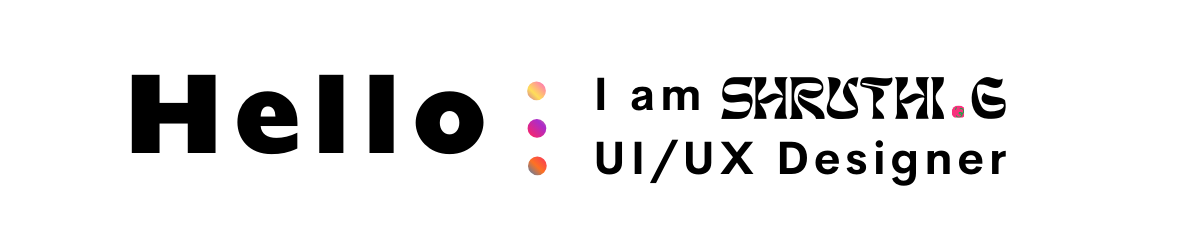
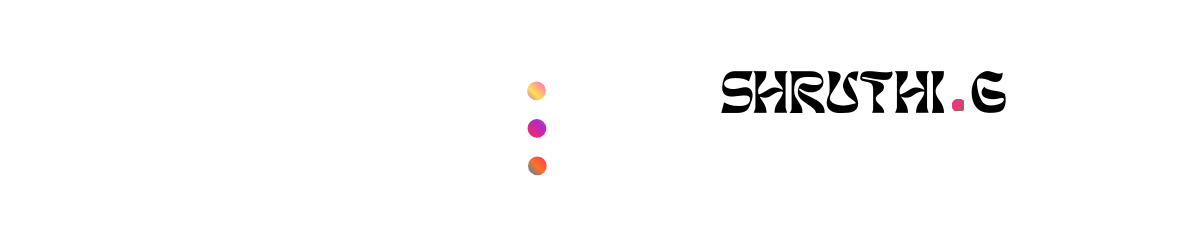
Updates

Changed region(s): [[0.0914, 0.2966, 0.4268, 0.6525], [0.4877, 0.2966, 0.8535, 0.5042], [0.4877, 0.5932, 0.8535, 0.8008]]

diff --git a/CSS/homepage.css b/CSS/homepage.css
@@ -274,6 +274,30 @@ div{
   unicode-bidi: isolate;
 }
 
+.job-title{
+  width: 15ch;
+  height: 5ch;
+  border: none;
+  border-radius: 100px;
+  margin-left: 650px;
+  margin-top: -115px;
+  font-family:'Gill Sans', 'Gill Sans MT', 'Calibri', 'Trebuchet MS', sans-serif;
+  font-size: 4vw;
+  font-weight: 550;
+}
+
+.i-am{
+  width: 15ch;
+  height: 5ch;
+  border: none;
+  border-radius: 100px;
+  margin-left: 650px;
+  margin-top: -205px;
+  font-family:'Gill Sans', 'Gill Sans MT', 'Calibri', 'Trebuchet MS', sans-serif;
+  font-size: 4vw;
+  font-weight: 550;
+}
+
 
 .profile-image {
   border: solid thin #f8256b;
@@ -1187,6 +1211,32 @@ margin-right: 290px;
     div{
       unicode-bidi: isolate;
     }
+    
+
+    .job-title{
+      width: 15ch;
+      height: 5ch;
+      border: none;
+      border-radius: 100px;
+      margin-left: 650px;
+      margin-top: -115px;
+      font-family:'Gill Sans', 'Gill Sans MT', 'Calibri', 'Trebuchet MS', sans-serif;
+      font-size: 4vw;
+      font-weight: 550;
+    }
+    
+    .i-am{
+      width: 15ch;
+      height: 5ch;
+      border: none;
+      border-radius: 100px;
+      margin-left: 650px;
+      margin-top: -205px;
+      font-family:'Gill Sans', 'Gill Sans MT', 'Calibri', 'Trebuchet MS', sans-serif;
+      font-size: 4vw;
+      font-weight: 550;
+    }
+    
     
     
     

diff --git a/index.html b/index.html
@@ -29,8 +29,10 @@ document.addEventListener('mousemove', (e) => {
     
     </script>
 
-<img class="hero-photo" src="Images/hello 2.png" alt="Hero photo;">
+<img class="hero-photo" src="Images/hello 3.png" alt="Hero photo;">
   <div class="large-tag hello"><h2 class="display-medium-alt homepage changing-text">Hello</h2></div>
+  <div class="job-title">Product Designer</div>
+  <div class="i-am">I am</div>
 
   <script type="text/javascript">
       $(function () {
